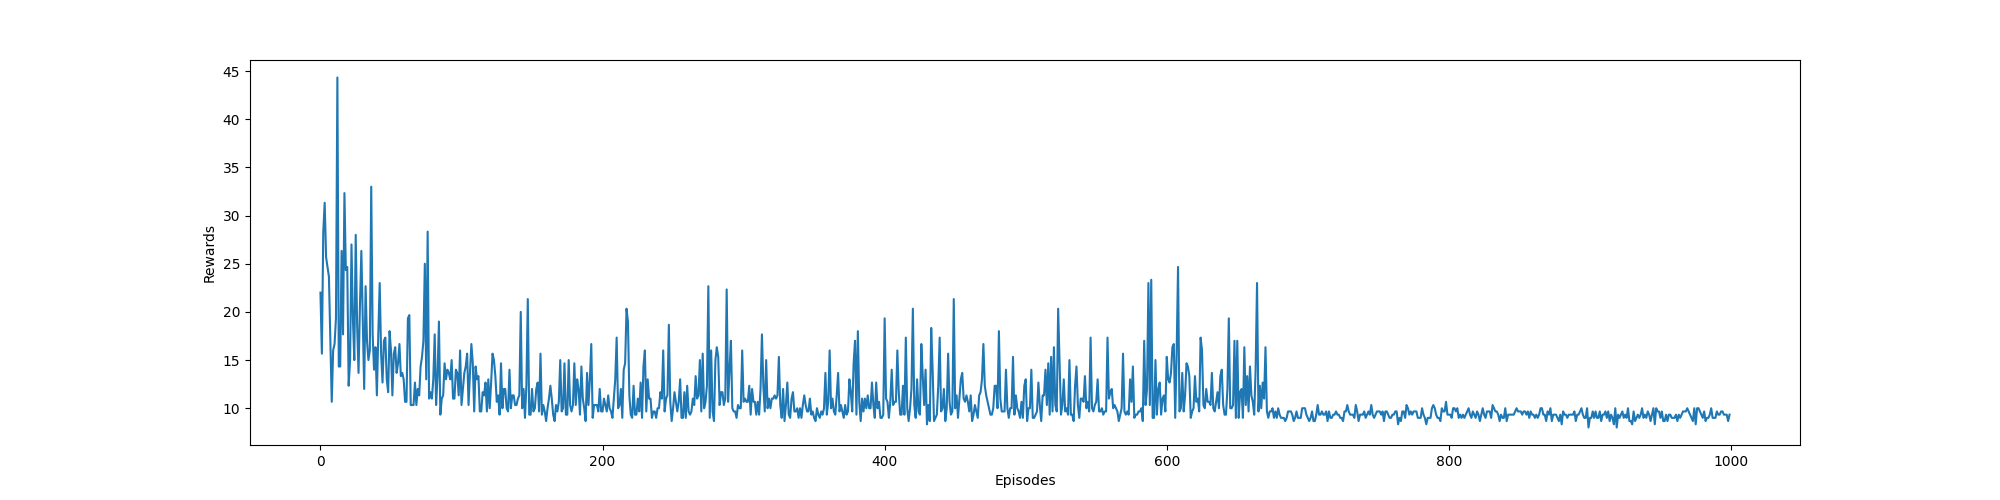
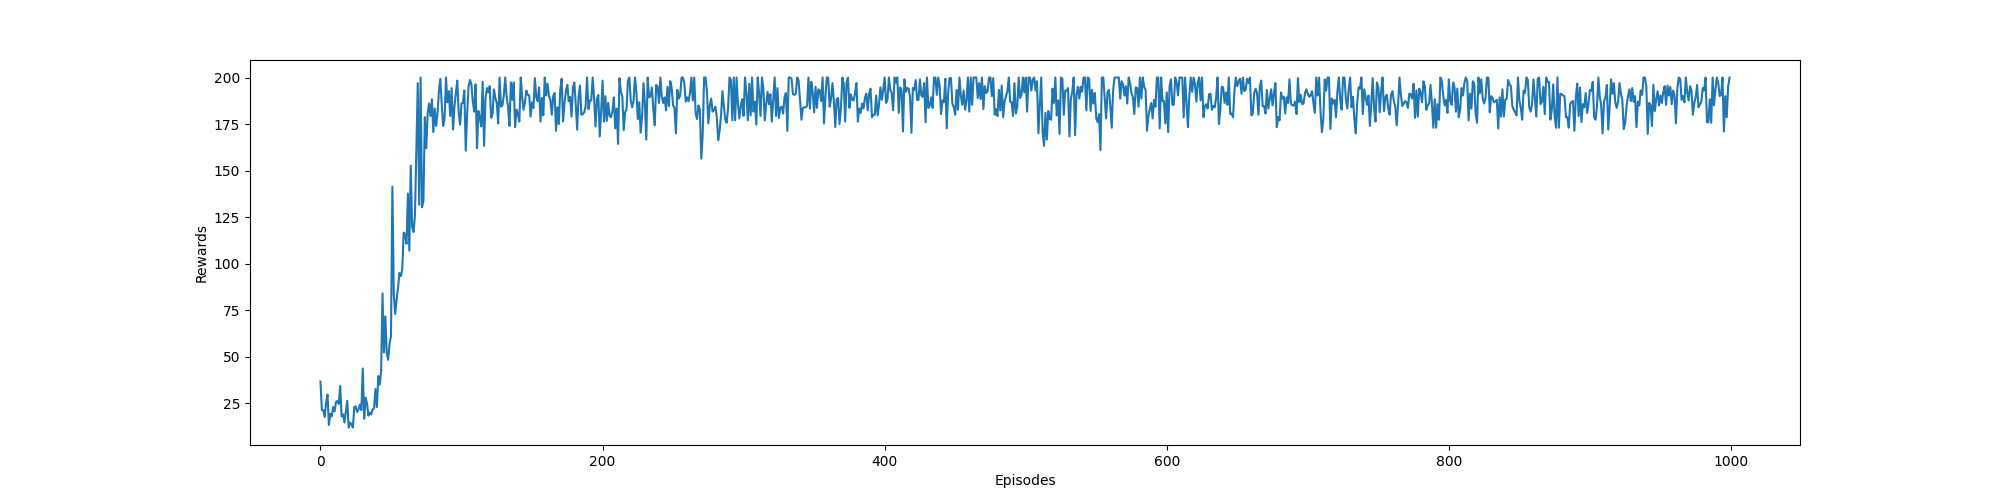
Corrected DDQN nstep

diff --git a/cartpole-v1/dqn_per_nstep.py b/cartpole-v1/dqn_per_nstep.py
@@ -71,11 +71,16 @@ class SumTree:
         return self.tree[0]  # Returns the root node
 
 def create_model(lr):
-    model = keras.Sequential([
-        keras.layers.Dense(128, activation='relu', input_shape=(state_size,)),
-        keras.layers.Dense(128, activation='relu'),
-        keras.layers.Dense(action_size, activation='relu')]
-    )
+    inputs = tf.keras.Input(shape=(state_size,))
+    fc1 = tf.keras.layers.Dense(128, activation='relu')(inputs)
+    fc2 = tf.keras.layers.Dense(128, activation='relu')(fc1)
+    advantage_output = tf.keras.layers.Dense(action_size, activation='linear')(fc2)
+
+    value_out = tf.keras.layers.Dense(1, activation='linear')(fc2)
+    norm_advantage_output = tf.keras.layers.Lambda(lambda x: x - tf.reduce_mean(x))(advantage_output)
+    outputs = tf.keras.layers.Add()([value_out, norm_advantage_output])
+    model = tf.keras.Model(inputs, outputs)
+
     model.compile(optimizer=tf.keras.optimizers.Adam(lr), loss='mse', metrics=['accuracy'])
     return model
 
@@ -210,14 +215,41 @@ class DQNAgent:
             rewards = np.vstack([data[2] for data in batches])
             next_states = np.vstack([data[3] for data in batches])
             dones = np.vstack([data[4] for data in batches])
-            y = self.model(states).numpy()
-            n_gamma = self.gamma ** self.n_step
-            y_reward = np.where(dones, rewards, rewards + n_gamma*np.max(self.target_model(next_states).numpy()))
-            y[np.arange(self.batch_size), actions] = y_reward
-            y_pred = self.model(states).numpy()
-            td_errors = np.sum(np.abs(y_pred-y), axis=1)
-            self.model.fit(states, y, epochs=64, verbose=0, sample_weight=batch_ISWeights)
+            td_errors, loss = self._train_body(states, actions, rewards, next_states, dones, batch_ISWeights)
             self.batch_update(batch_index, td_errors)
+
+    @tf.function
+    def _train_body(self, states, actions, rewards, next_states, dones, weights):
+        weights = tf.cast(weights, dtype=tf.float32)
+        with tf.GradientTape() as tape:
+            td_errors = self._compute_td_error_body(states, actions, rewards, next_states, dones)
+            loss = tf.reduce_mean(tf.square(weights * td_errors))  # huber loss seems no use
+        gradients = tape.gradient(loss, self.model.trainable_variables)
+        self.model.optimizer.apply_gradients(zip(gradients, self.model.trainable_variables))
+        return td_errors, loss
+
+    @tf.function
+    def _compute_td_error_body(self, states, actions, rewards, next_states, dones):
+        rewards = tf.cast(tf.squeeze(rewards), dtype=tf.float32)
+        dones = tf.cast(tf.squeeze(dones), dtype=tf.bool)
+        actions = tf.cast(actions, dtype=tf.int32)  # (batch_size, 1)
+        batch_size_range = tf.expand_dims(tf.range(self.batch_size), axis=1)  # (batch_size, 1)
+
+        # get current q value
+        current_q_indexes = tf.concat(values=(batch_size_range, actions), axis=1)  # (batch_size, 2)
+        current_q = tf.gather_nd(self.model(states), current_q_indexes)  # (batch_size, )
+
+        # get target q value using double dqn
+        max_next_q_indexes = tf.argmax(self.model(next_states), axis=1, output_type=tf.int32)  # (batch_size, )
+        indexes = tf.concat(values=(batch_size_range,
+                                    tf.expand_dims(max_next_q_indexes, axis=1)), axis=1)  # (batch_size, 2)
+        target_q = tf.gather_nd(self.target_model(next_states), indexes)  # (batch_size, )
+
+        target_q = tf.where(dones, rewards, rewards + self.gamma * target_q)  # (batch_size, )
+        # don't want change the weights of target network in backpropagation, so tf.stop_gradient()
+        # but seems no use
+        td_errors = tf.abs(current_q - tf.stop_gradient(target_q))
+        return td_errors
 
     def acting(self, state):
         if self.render:

diff --git a/cartpole-v1/dqn_cer_nstep.py b/cartpole-v1/dqn_cer_nstep.py
@@ -22,12 +22,19 @@ saveFileName = 'dqn_cer'
 
 
 def create_model(lr):
-    model = keras.Sequential([
-        keras.layers.Dense(128, activation='relu', input_shape=(state_size,)),
-        keras.layers.Dense(128, activation='relu'),
-        keras.layers.Dense(action_size, activation='relu')]
-    )
-    model.compile(optimizer=tf.keras.optimizers.Adam(lr), loss='mse', metrics=['accuracy'])
+    inputs = keras.Input(shape=(state_size,))
+    fc1 = keras.layers.Dense(128, activation='relu')(inputs)
+    fc2 = keras.layers.Dense(128, activation='relu')(fc1)
+    advantage_output = keras.layers.Dense(action_size, activation='linear')(fc2)
+
+    value_out = keras.layers.Dense(1, activation='linear')(fc2)
+    norm_advantage_output = keras.layers.Lambda(lambda x: x - tf.reduce_mean(x))(advantage_output)
+    outputs = keras.layers.Add()([value_out, norm_advantage_output])
+    model = keras.Model(inputs, outputs)
+
+    model.compile(optimizer=keras.optimizers.Adam(lr),
+		  loss='mse',
+		  metrics=['accuracy'])
     return model
 
 class DQNAgent:
@@ -121,11 +128,40 @@ class DQNAgent:
             rewards = np.vstack([data[2] for data in batches])
             next_states = np.vstack([data[3] for data in batches])
             dones = np.vstack([data[4] for data in batches])
-            y = self.model(states).numpy()
-            n_gamma = self.gamma ** self.n_step
-            y_reward = np.where(dones, rewards, rewards + n_gamma * np.max(self.target_model(next_states).numpy()))
-            y[np.arange(self.batch_size), actions] = y_reward
-            self.model.fit(states, y, epochs=64, verbose=0)
+            self._train_body(states, actions, rewards, next_states, dones)
+
+    @tf.function
+    def _train_body(self, states, actions, rewards, next_states, dones):
+        with tf.GradientTape() as tape:
+            td_errors = self._compute_td_error_body(states, actions, rewards, next_states, dones)
+            loss = tf.reduce_mean(tf.square(td_errors))  # huber loss seems no use
+        gradients = tape.gradient(loss, self.model.trainable_variables)
+        self.model.optimizer.apply_gradients(zip(gradients, self.model.trainable_variables))
+        return td_errors, loss
+
+    @tf.function
+    def _compute_td_error_body(self, states, actions, rewards, next_states, dones):
+        rewards = tf.cast(tf.squeeze(rewards), dtype=tf.float32)
+        dones = tf.cast(tf.squeeze(dones), dtype=tf.bool)
+        actions = tf.cast(actions, dtype=tf.int32)  # (batch_size, 1)
+        batch_size_range = tf.expand_dims(tf.range(self.batch_size), axis=1)  # (batch_size, 1)
+
+        # get current q value
+        current_q_indexes = tf.concat(values=(batch_size_range, actions), axis=1)  # (batch_size, 2)
+        current_q = tf.gather_nd(self.model(states), current_q_indexes)  # (batch_size, )
+
+        # get target q value using double dqn
+        max_next_q_indexes = tf.argmax(self.model(next_states), axis=1, output_type=tf.int32)  # (batch_size, )
+        indexes = tf.concat(values=(batch_size_range,
+                                    tf.expand_dims(max_next_q_indexes, axis=1)), axis=1)  # (batch_size, 2)
+        target_q = tf.gather_nd(self.target_model(next_states), indexes)  # (batch_size, )
+
+        n_gamma = self.gamma ** self.n_step
+        target_q = tf.where(dones, rewards, rewards + n_gamma * target_q)  # (batch_size, )
+        # don't want change the weights of target network in backpropagation, so tf.stop_gradient()
+        # but seems no use
+        td_errors = tf.abs(current_q - tf.stop_gradient(target_q))
+        return td_errors
 
     def acting(self, state):
         if self.render:

diff --git a/cartpole-v1/dqn_er_nstep.py b/cartpole-v1/dqn_er_nstep.py
@@ -20,11 +20,16 @@ action_size = env.action_space.n
 saveFileName = 'dqn_er'
 
 def create_model(lr):
-    model = keras.Sequential([
-        keras.layers.Dense(128, activation='relu', input_shape=(state_size,)),
-        keras.layers.Dense(128, activation='relu'),
-        keras.layers.Dense(action_size, activation='relu')]
-    )
+    inputs = keras.Input(shape=(state_size,))
+    fc1 = keras.layers.Dense(128, activation='relu')(inputs)
+    fc2 = keras.layers.Dense(128, activation='relu')(fc1)
+    advantage_output = keras.layers.Dense(action_size, activation='linear')(fc2)
+
+    value_out = keras.layers.Dense(1, activation='linear')(fc2)
+    norm_advantage_output = keras.layers.Lambda(lambda x: x - tf.reduce_mean(x))(advantage_output)
+    outputs = keras.layers.Add()([value_out, norm_advantage_output])
+    model = keras.Model(inputs, outputs)
+
     model.compile(optimizer=tf.keras.optimizers.Adam(lr),
                   loss='mse',
                   metrics=['accuracy'])
@@ -118,11 +123,40 @@ class DQNAgent:
             rewards = np.vstack([data[2] for data in batches])
             next_states = np.vstack([data[3] for data in batches])
             dones = np.vstack([data[4] for data in batches])
-            y = self.model(states).numpy()
-            n_gamma = self.gamma ** self.n_step
-            y_reward = np.where(dones, rewards, rewards + n_gamma * np.max(self.target_model(next_states).numpy()))
-            y[np.arange(self.batch_size), actions] = y_reward
-            self.model.fit(states, y, epochs=64, verbose=0)
+            self._train_body(states, actions, rewards, next_states, dones)
+
+    @tf.function
+    def _train_body(self, states, actions, rewards, next_states, dones):
+        with tf.GradientTape() as tape:
+            td_errors = self._compute_td_error_body(states, actions, rewards, next_states, dones)
+            loss = tf.reduce_mean(tf.square(td_errors))
+        gradients = tape.gradient(loss, self.model.trainable_variables)
+        self.model.optimizer.apply_gradients(zip(gradients, self.model.trainable_variables))
+        return td_errors
+
+    @tf.function
+    def _compute_td_error_body(self, states, actions, rewards, next_states, dones):
+        rewards = tf.cast(tf.squeeze(rewards), dtype=tf.float32)
+        dones = tf.cast(tf.squeeze(dones), dtype=tf.bool)
+        actions = tf.cast(actions, dtype=tf.int32)  # (batch_size, 1)
+        batch_size_range = tf.expand_dims(tf.range(self.batch_size), axis=1)  # (batch_size, 1)
+
+        # get current q value
+        current_q_indexes = tf.concat(values=(batch_size_range, actions), axis=1)  # (batch_size, 2)
+        current_q = tf.gather_nd(self.model(states), current_q_indexes)  # (batch_size, )
+
+        # get target q value using double dqn
+        max_next_q_indexes = tf.argmax(self.model(next_states), axis=1, output_type=tf.int32)  # (batch_size, )
+        indexes = tf.concat(values=(batch_size_range,
+                                    tf.expand_dims(max_next_q_indexes, axis=1)), axis=1)  # (batch_size, 2)
+        target_q = tf.gather_nd(self.target_model(next_states), indexes)  # (batch_size, )
+
+        n_gamma = self.gamma ** self.n_step
+        target_q = tf.where(dones, rewards, rewards + n_gamma * target_q)  # (batch_size, )
+        # don't want change the weights of target network in backpropagation, so tf.stop_gradient()
+        # but seems no use
+        td_errors = tf.abs(current_q - tf.stop_gradient(target_q))
+        return td_errors
 
     def acting(self, state):
         if self.render:

diff --git a/cartpole-v1/dqn_ser_nstep.py b/cartpole-v1/dqn_ser_nstep.py
@@ -22,11 +22,15 @@ saveFileName = 'dqn_ser'
 
 
 def create_model(lr):
-    model = keras.Sequential([
-        keras.layers.Dense(128, activation='relu', input_shape=(state_size,)),
-        keras.layers.Dense(128, activation='relu'),
-        keras.layers.Dense(action_size, activation='relu')]
-    )
+    inputs = tf.keras.Input(shape=(state_size,))
+    fc1 = tf.keras.layers.Dense(128, activation='relu')(inputs)
+    fc2 = tf.keras.layers.Dense(128, activation='relu')(fc1)
+    advantage_output = tf.keras.layers.Dense(action_size, activation='linear')(fc2)
+
+    value_out = tf.keras.layers.Dense(1, activation='linear')(fc2)
+    norm_advantage_output = tf.keras.layers.Lambda(lambda x: x - tf.reduce_mean(x))(advantage_output)
+    outputs = tf.keras.layers.Add()([value_out, norm_advantage_output])
+    model = tf.keras.Model(inputs, outputs)
     model.compile(optimizer=tf.keras.optimizers.Adam(lr), loss='mse', metrics=['accuracy'])
     return model
 
@@ -154,11 +158,39 @@ class DQNAgent:
             rewards = np.vstack([data[2] for data in batches])
             next_states = np.vstack([data[3] for data in batches])
             dones = np.vstack([data[4] for data in batches])
-            y = self.model(states).numpy()
-            n_gamma = self.gamma ** self.n_step
-            y_reward = np.where(dones, rewards, rewards + n_gamma * np.max(self.target_model(next_states).numpy()))
-            y[np.arange(self.batch_size), actions] = y_reward
-            self.model.fit(states, y, epochs=64, verbose=0)
+            self._train_body(states, actions, rewards, next_states, dones)
+
+    @tf.function
+    def _train_body(self, states, actions, rewards, next_states, dones):
+        with tf.GradientTape() as tape:
+            td_errors = self._compute_td_error_body(states, actions, rewards, next_states, dones)
+            loss = tf.reduce_mean(tf.square(td_errors))  # huber loss seems no use
+        gradients = tape.gradient(loss, self.model.trainable_variables)
+        self.model.optimizer.apply_gradients(zip(gradients, self.model.trainable_variables))
+        return td_errors, loss
+
+    @tf.function
+    def _compute_td_error_body(self, states, actions, rewards, next_states, dones):
+        rewards = tf.cast(tf.squeeze(rewards), dtype=tf.float32)
+        dones = tf.cast(tf.squeeze(dones), dtype=tf.bool)
+        actions = tf.cast(actions, dtype=tf.int32)  # (batch_size, 1)
+        batch_size_range = tf.expand_dims(tf.range(self.batch_size), axis=1)  # (batch_size, 1)
+
+        # get current q value
+        current_q_indexes = tf.concat(values=(batch_size_range, actions), axis=1)  # (batch_size, 2)
+        current_q = tf.gather_nd(self.model(states), current_q_indexes)  # (batch_size, )
+
+        # get target q value using double dqn
+        max_next_q_indexes = tf.argmax(self.model(next_states), axis=1, output_type=tf.int32)  # (batch_size, )
+        indexes = tf.concat(values=(batch_size_range,
+                                    tf.expand_dims(max_next_q_indexes, axis=1)), axis=1)  # (batch_size, 2)
+        target_q = tf.gather_nd(self.target_model(next_states), indexes)  # (batch_size, )
+
+        target_q = tf.where(dones, rewards, rewards + self.gamma * target_q)  # (batch_size, )
+        # don't want change the weights of target network in backpropagation, so tf.stop_gradient()
+        # but seems no use
+        td_errors = tf.abs(current_q - tf.stop_gradient(target_q))
+        return td_errors
 
     def acting(self, state):
         if self.render:
